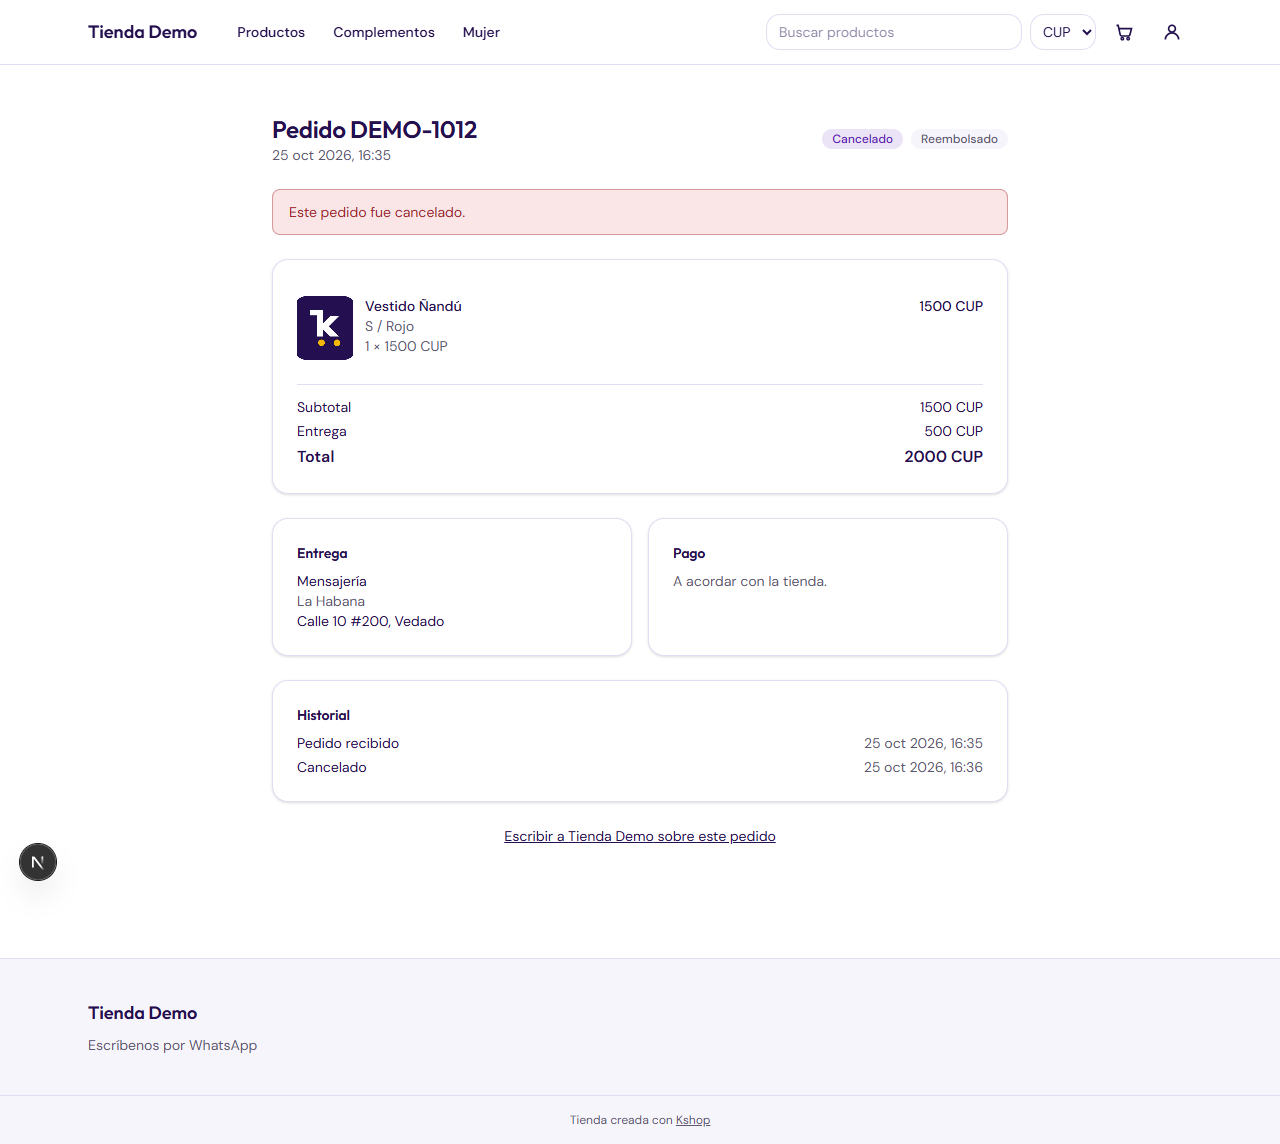
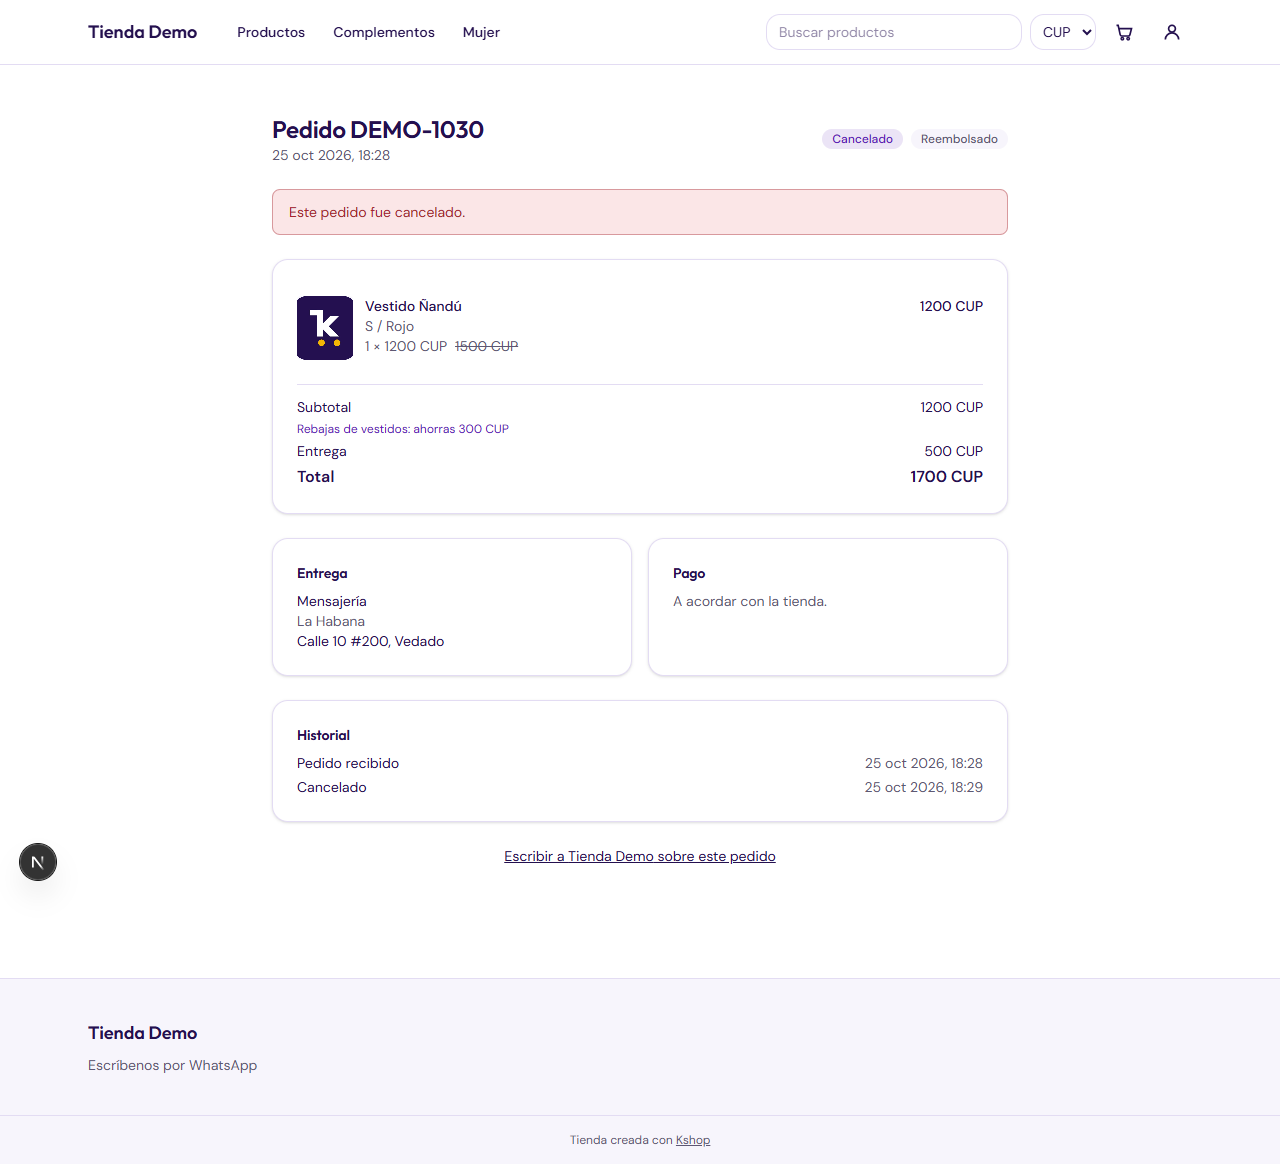
test: phase 4 final validation and closure (phase 4.6)
All suites green (RLS 370, e2e catalog/orders/discounts/notifications, browser QA), dispatcher
checked live against an echo server. Pending: a real message with the OpenWA instance.

diff --git a/.titan/plans/prp-fase-4-avisos-y-descuentos.md b/.titan/plans/prp-fase-4-avisos-y-descuentos.md
@@ -1,6 +1,6 @@
 # PRP-4: Avisos y descuentos en Kshop
 
-> **Estado**: EN CURSO — 4.1–4.3 (descuentos) hechas: commits 23ce834, a782cba, 4fa371d, e6d3b2d; faltan 4.4–4.6 (avisos y validación). APROBADO (2026-10-25) — Roberto: D20 sí; OpenWA = la misma instancia de klauShop con otra sesión y otro número; D6 sí (uso al crear la orden); D10 sí (descuento manual libre); D18 cambiada (ver D18); D19 sí. Resto de D tal cual.
+> **Estado**: COMPLETADO (2026-10-25) salvo el envío real con una instancia OpenWA (pendiente: no hay instancia; todo probado en `dry_run` y el despachador contra un servidor de eco). Commits 23ce834 … 34944e6 y el de la validación final. APROBADO (2026-10-25) — Roberto: D20 sí; OpenWA = la misma instancia de klauShop con otra sesión y otro número; D6 sí (uso al crear la orden); D10 sí (descuento manual libre); D18 cambiada (ver D18); D19 sí. Resto de D tal cual.
 > **Fecha**: 2026-10-25
 > **Proyecto**: Kshop
 > **Fase**: 4 (ver `arranque-y-fases.md`). Código de partida: commit `98a564c` (Fase 3 cerrada)
@@ -262,10 +262,15 @@ admin, la API key nunca vuelve en una respuesta); si hay instancia OpenWA, un me
 ### Fase 6: Validación final
 **Objetivo**: sistema funcionando end-to-end.
 **Validación**:
-- [ ] `pnpm typecheck`, `pnpm lint`, `pnpm test`, `pnpm build` pasan
-- [ ] `pnpm test:rls`, `pnpm e2e:catalog`, `pnpm e2e:orders`, `pnpm e2e:discounts`, `pnpm e2e:notifications` en verde
-- [ ] QA en navegador de compra con promoción + cupón y de los avisos (dry_run); capturas en `.titan/qa/fase-4/`
-- [ ] Criterios de éxito cumplidos; memoria, `arranque-y-fases.md` y este PRP actualizados
+- [x] `pnpm typecheck`, `pnpm lint`, `pnpm test`, `pnpm build` pasan
+- [x] `pnpm test:rls` 370/370, `pnpm e2e:catalog` 45/45, `pnpm e2e:orders` 94/94, `pnpm e2e:discounts` 32/32,
+  `pnpm e2e:notifications` 29/29
+- [x] `pnpm qa:orders` 14/14, `pnpm qa:discounts` 9/9, `pnpm qa:notifications` 8/8; capturas en `.titan/qa/fase-4/`
+- [x] Despachador en `live` contra `httpbin.org` (cuerpo `chatId`/`text`, cabecera `X-API-Key`, ruta
+  `/sessions/{id}/messages/send-text`): 200 → `sent`; 404 → `pending` con error y reintento. Vuelto a `dry_run`.
+- [ ] **Pendiente**: mensaje real con la instancia OpenWA (misma de klauShop, otra sesión y otro número) desde
+  Superadmin › WhatsApp: poner URL, sesión y API key, pasar a «Real» y «Enviar prueba».
+- [x] Memoria, `arranque-y-fases.md` y este PRP actualizados
 
 ---
 
@@ -305,6 +310,13 @@ Respuestas: 1 sí · 2 misma instancia OpenWA de klauShop, otra sesión y otro n
 ### 2026-10-25: Importes con 16 decimales y booleanos `t` en `format()`
 - **Error**: `convert_from_base` devuelve `numeric` sin escala (1400.0000000000000000) y `format('%s', bool)` da `t`.
 - **Fix**: `round(…, 2)` en `variant_sale_price`; los tests comparan con `t`/`f`.
+
+### 2026-10-25: El servidor de desarrollo servía una versión vieja de una ruta
+- **Error**: tras `pnpm build` con `pnpm dev` corriendo, `POST /orders` ignoraba `manualDiscount`/`voucherCode` (la
+  RPC directa sí los aplicaba). `touch` no lo arregló; un cambio real del archivo sí (Turbopack compara contenido).
+- **Fix**: editar el archivo (o reiniciar `pnpm dev`) y repetir. Ante un fallo que «no puede ser», aislar capa:
+  RPC directa → API → UI.
+- **Aplicar en**: validaciones finales que corren `pnpm build` y luego E2E contra el dev.
 
 ### 2026-10-25: Falso error de hidratación en el QA con Playwright
 - **Error**: «attributes didn't match … caret-color: transparent» en la ficha: lo inyecta `page.screenshot` (oculta

diff --git a/.titan/memory/MEMORY.md b/.titan/memory/MEMORY.md
@@ -10,7 +10,7 @@
 ## project/ — Proyectos y decisiones activas
 
 - [identidad-kshop.md](project/identidad-kshop.md) — Nombre, dominio kshop.fullkod.com, qué es, índice de los documentos de diseño
-- [decisiones.md](project/decisiones.md) — Decisiones tomadas (0–22, hasta 2026-10-25), recomendaciones confirmadas y preguntas abiertas. LEER ANTES DE CADA FASE
+- [decisiones.md](project/decisiones.md) — Decisiones tomadas (0–24, hasta 2026-10-25), recomendaciones confirmadas y preguntas abiertas. LEER ANTES DE CADA FASE
 - [2026-10-24-estudio-klaushop-vs-dcabellos.md](project/2026-10-24-estudio-klaushop-vs-dcabellos.md) — Qué se adopta de cada uno y qué no
 - [modelo-de-datos.md](project/modelo-de-datos.md) — Esquema v0: plataforma, clientes, catálogo Saleor, monedas, carrito, órdenes, descuentos, temas, entregas, WhatsApp, Excel
 - [tenancy-dominios-auth.md](project/tenancy-dominios-auth.md) — Tienda por host, wildcard Vercel, email sintético por tienda, alta de tienda, storage
@@ -24,7 +24,7 @@
 - [2026-10-25-fase-1-catalogo.md](project/2026-10-25-fase-1-catalogo.md) — Fase 1 CERRADA: dónde está cada pieza del catálogo, pruebas y datos de la Tienda Demo
 - [2026-10-25-fase-2-tienda-publica.md](project/2026-10-25-fase-2-tienda-publica.md) — Fase 2 hecha (Lighthouse en Vercel medido; re-medir listado): decisiones (URLs en inglés, Cache Components, WhatsApp), dónde está cada pieza, invalidación
 - [2026-10-25-fase-3-clientes-y-compra.md](project/2026-10-25-fase-3-clientes-y-compra.md) — Fase 3 hecha: dónde está cada pieza, pruebas, pendientes
-- [2026-10-25-fase-4-avisos-y-descuentos.md](project/2026-10-25-fase-4-avisos-y-descuentos.md) — Fase 4 en curso: descuentos hechos (motor de precios SQL, promociones, cupones), faltan avisos WhatsApp
+- [2026-10-25-fase-4-avisos-y-descuentos.md](project/2026-10-25-fase-4-avisos-y-descuentos.md) — Fase 4 hecha: motor de precios SQL, promociones, cupones y avisos WhatsApp (dry_run; falta OpenWA real)
 - [tienda-demo.md](project/tienda-demo.md) — Tienda de pruebas permanente «Tienda Demo» (demo.kshop), plan Pro, dueño y empleado; credenciales en Tasknic y .env.local
 
 ## feedback/ — Correcciones y preferencias
@@ -44,4 +44,4 @@
 - `prp-fase-1-catalogo.md` — Fase 1: catálogo (tipos, atributos, variantes, costo privado, monedas, categorías, colecciones, marcas, medias, almacenes/stock, Excel) (COMPLETADO 2026-10-25, commits hasta d6f1507)
 - `prp-fase-2-tienda-publica.md` — Fase 2: tienda pública (COMPLETADO 2026-10-25; Lighthouse en Vercel en el PRP)
 - `prp-fase-3-clientes-y-compra.md` — Fase 3: clientes y compra (COMPLETADO)
-- `prp-fase-4-avisos-y-descuentos.md` — Fase 4: promociones, cupones y avisos WhatsApp de plataforma (EN CURSO: 4.1–4.3 hechas)
+- `prp-fase-4-avisos-y-descuentos.md` — Fase 4: promociones, cupones y avisos WhatsApp de plataforma (COMPLETADO salvo OpenWA real)

diff --git a/.titan/memory/project/2026-10-25-fase-4-avisos-y-descuentos.md b/.titan/memory/project/2026-10-25-fase-4-avisos-y-descuentos.md
@@ -1,4 +1,4 @@
-# Fase 4 — Avisos y descuentos (en curso: 4.1–4.3 descuentos hechas, faltan avisos 4.4–4.6)
+# Fase 4 — Avisos y descuentos (hecha; falta probar con la instancia OpenWA real)
 
 PRP: `.titan/plans/prp-fase-4-avisos-y-descuentos.md` (decisión 24; aprendizajes ahí). Commits 23ce834, a782cba,
 4fa371d, e6d3b2d.
@@ -27,7 +27,25 @@ PRP: `.titan/plans/prp-fase-4-avisos-y-descuentos.md` (decisión 24; aprendizaje
 - Pruebas: `pnpm test:rls` 343/343 (suite 05), `pnpm e2e:discounts` 32/32 (incluye carrera por el último uso),
   `pnpm qa:discounts` 9/9 (capturas en `.titan/qa/fase-4/`).
 
-## Falta
-- 4.4–4.5: avisos por WhatsApp (OpenWA en `dry_run`), contactos, plantillas, historial, superadmin,
-  recuperación por WhatsApp, enlace del aviso (cuenta → `/account/orders/{id}`, invitado → `/order/{token}`).
-- 4.6 validación final.
+## Avisos WhatsApp (hecho, en `dry_run`)
+- **BD** (`20261030100000…100400`): `pg_net` (schema extensions) + `pg_cron`; `private.platform_config` (modo
+  off/dry_run/live, URL, sesión, límites) y la API key en **Vault** (`openwa_api_key`); `store_notification_contacts`,
+  `whatsapp_templates` (`store_id` null = texto de Kshop, fila de tienda = override), `notification_log` (outbox,
+  único por pedido+evento+teléfono), `orders.notify_customer`.
+- **Motor** (`20261030100200_notifications_engine.sql`): trigger **diferido** en `order_events` → avisos al commit
+  (tienda: pedido nuevo, pagos; cliente: recibido, pendiente de pago, pagado, preparación, enviado, entregado,
+  cancelado, costo de entrega). Requiere módulo `whatsapp_notifications`. Cabecera `*Tienda*` y pie fijo «Aviso
+  automático… Consultas: contactos». Enlace del cliente: con cuenta → `/account/orders/{id}`, si no → `/order/{token}`.
+  `dispatch_notifications` (pg_cron `kshop-whatsapp-dispatch`, cada minuto) solo envía en `live`, concilia
+  `net._http_response`, reintenta 3 veces. Nunca rompe un pedido.
+- **API**: `notification-contacts`, `whatsapp-templates` (+`preview`), `notifications/{id}/retry`,
+  `customer/orders/{id}`, `platform/whatsapp` (+`test`, superadmin; la key nunca vuelve). Código de recuperación por
+  WhatsApp cuando el modo es `live` (todas las tiendas).
+- **Web**: admin `/admin/whatsapp-notifications` (Contactos, Mensajes con vista previa, Historial con «Reintentar» y
+  «Abrir en WhatsApp»), avisos en la ficha del pedido, `/superadmin/whatsapp`, casilla en el checkout,
+  `/account/orders/{id}`. Tienda Demo: contacto `+5350000000`.
+- Pruebas: suite 06 (370/370 en total), `pnpm e2e:notifications` 29/29, `pnpm qa:notifications` 8/8.
+
+## Pendiente
+- Conectar la instancia OpenWA (misma de klauShop, otra sesión y otro número) en Superadmin › WhatsApp y enviar
+  una prueba real. Hasta entonces todo queda «Simulado».

diff --git a/.titan/plans/arranque-y-fases.md b/.titan/plans/arranque-y-fases.md
@@ -72,7 +72,7 @@ Proyecto Supabase **nuevo y propio** (nunca el de klauShop), con entorno de desa
 | 1. Catálogo | Hecha (incluye imágenes por URL en Excel y prueba de 1 000 filas) | `prp-fase-1-catalogo.md` | `0684e23` |
 | 2. Tienda pública | Hecha. Lighthouse en Vercel: portada 97–98, ficha 89–93, listado 81–82 (CLS corregido, re-medir tras el próximo deploy) | `prp-fase-2-tienda-publica.md` | `f1b50e0` |
 | 3. Clientes y compra | Hecha (avisos automáticos por OpenWA en la Fase 4) | `prp-fase-3-clientes-y-compra.md` | ver PRP |
-| 4. Avisos y descuentos | En curso: 4.1–4.3 (descuentos) hechas, faltan avisos 4.4–4.6 | `prp-fase-4-avisos-y-descuentos.md` | `e6d3b2d` |
+| 4. Avisos y descuentos | Hecha; **pendiente** probar con la instancia OpenWA real (hoy en modo simulado) | `prp-fase-4-avisos-y-descuentos.md` | ver PRP |
 
 El remoto `origin` (`Fullkod/kshop`) está al día hasta la Fase 2 (Roberto subió los commits); lo de la Fase 3
 sigue en commits locales hasta que Roberto autorice el push.
